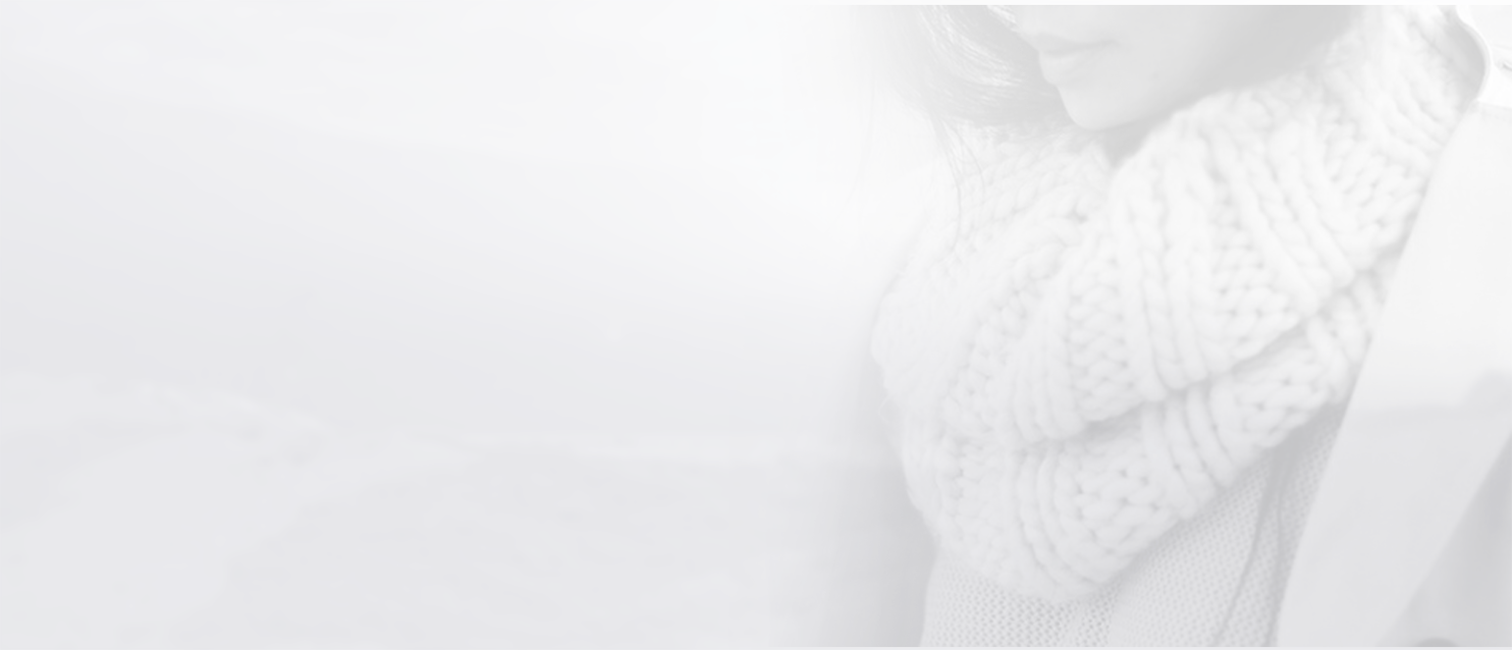
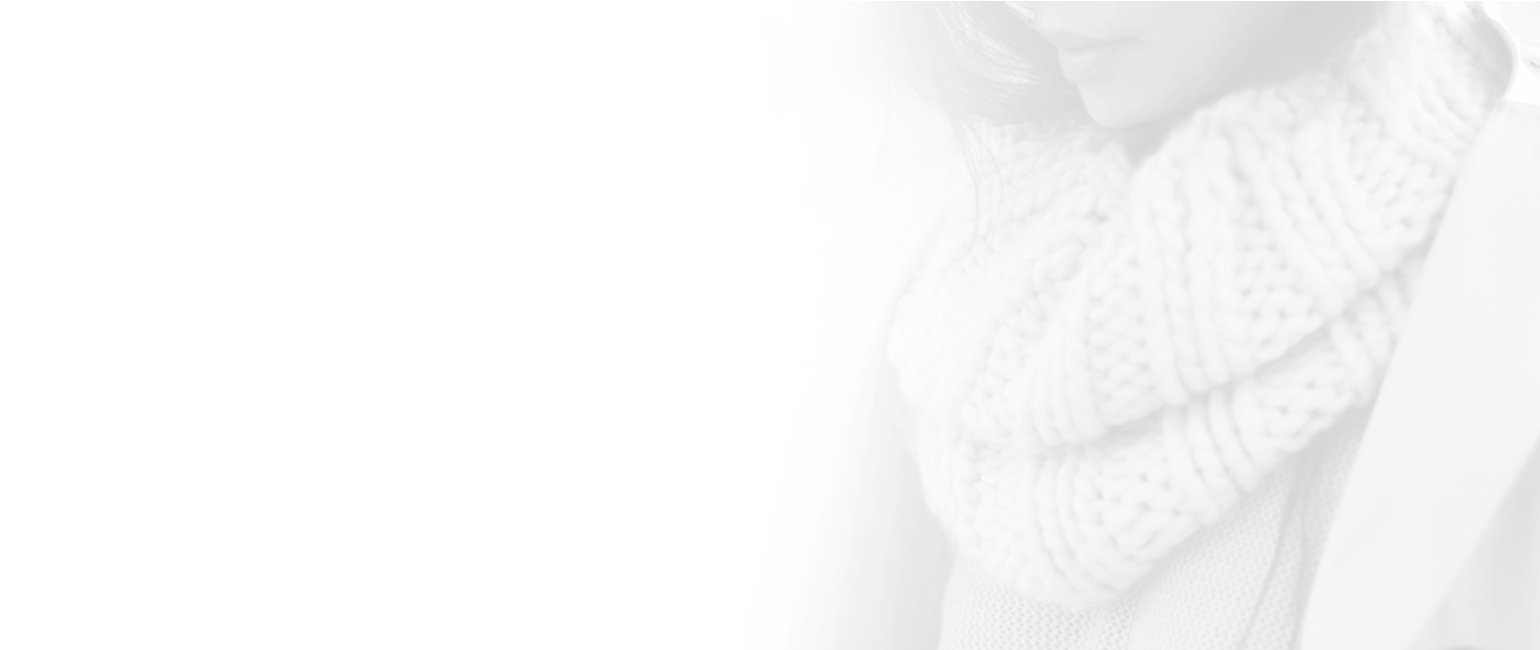
add slider

diff --git a/app/pages/index.html b/app/pages/index.html
@@ -14,6 +14,7 @@
     
     <!-- build:css css/libs.min.css -->
     <link href="../bower/normalize-css/normalize.css" rel="stylesheet">
+    <link href="../bower/bxslider-4/dist/jquery.bxslider.css">
     
     <!-- endbuild -->
     <link rel="stylesheet" href="css/style.css">
@@ -114,6 +115,36 @@
       
       <!--MAIN CONTENT-->
       <main class="content">
+        <section class="slider">
+          <div class="container">
+            <div class="slider__dots"><a href="#" data-slide-index="0"></a><a href="#" data-slide-index="1"></a><a href="#" data-slide-index="2"></a></div>
+          </div>
+          <ul class="slider__list">
+            <li class="slider__item"><img src="img/bg/bg1@1x.png" srcset="img/bg/bg1@2x.png 2x">
+              <div class="slider__info">
+                <h1 class="slider__title">Full Winter Kit</h1>
+                <div class="slider__desc">Half Jacket + Skiny Trousers + Boot leather</div>
+                <div class="slider__text">Lorem Ipsum is simply dummy text of the printing and typesetting industry t of the printing and typesetting industry</div>
+                <div class="slider__action"><span class="slider__price">Price: $120</span><span class="slider__buy">
+                    <svg width="26" height="20">
+                      <use xlink:href="img/svg-sprite.svg#icon-basket"></use>
+                    </svg>Order Now</span></div>
+              </div>
+            </li>
+            <li class="slider__item"><img src="img/bg/bg1@1x.png" srcset="img/bg/bg1@2x.png 2x">
+              <div class="slider__info">
+                <h1 class="slider__title">Full Summer Kit</h1>
+                <div class="slider__desc">Half Jacket + Skiny Trousers</div>
+                <div class="slider__text">Lorem Ipsum is simply dummy text of the printing and typesetting industry</div>
+                <div class="slider__action"><span class="slider__price">Price: $150</span><span class="slider__buy">
+                    <svg width="26" height="20">
+                      <use xlink:href="img/svg-sprite.svg#icon-basket"></use>
+                    </svg>Order Now</span></div>
+              </div>
+            </li>
+            <li class="slider__item"><img src="img/bg/bg1@1x.png" srcset="img/bg/bg1@2x.png 2x"></li>
+          </ul>
+        </section>
         <section class="arrivals">
           <div class="container"></div>
         </section>
@@ -130,8 +161,9 @@
     
     <!-- build:js js/libs.min.js -->
     <script src="../bower/jQuery/dist/jquery.min.js"></script>
+    <script src="../bower/bxslider-4/dist/jquery.bxslider.js"></script>
     
     <!-- endbuild -->
-    <script src="js/common.js" defer></script>
+    <script src="js/common.js"></script>
   </body>
 </html>

diff --git a/app/sass/blocks/_slider.scss b/app/sass/blocks/_slider.scss
@@ -1,0 +1,106 @@
+.slider {
+  position: relative;
+  max-height: rem(650px);
+}
+.slider {
+  .bx-wrapper {
+    border: none;
+    margin: 0;
+    .bx-viewport {
+      left: 0;
+      box-shadow: none;
+      background-color: none;
+      border: none;
+    }
+  }
+}
+.bx-wrapper .bx-prev,
+.bx-wrapper .bx-next {
+  background-image: url("../img/decor/controls.png");
+}
+.slider__list {
+  @extend %ul-reset;
+}
+.slider__item {
+  max-height: rem(650px);
+  img {
+    width: 100%;
+  }
+}
+.slider__dots {
+  position: absolute;
+  z-index: 30;
+  top: 50%;
+  transform: translateY(-50%);
+  a {
+    display: block;
+    width: rem(10px);
+    height: rem(15px);
+    margin-bottom: rem(10px);
+    background-color: #fff;
+    background-color: #444;
+    &:last-child {
+      margin-bottom: 0;
+    }
+    &.active {
+      height: rem(40px);
+      background-color: $accent;
+    }
+  }
+}
+.slider__info {
+  max-width: 570px;
+  position: absolute;
+  z-index: 30;
+  left: 15%;
+  top: 50%;
+  transform: translateY(-50%);
+  font-family: "harmoniaSansProCyr";
+  background-color: #ccc;
+
+}
+.slider__title {
+  margin-bottom: 20px;
+  font-size: rem(52px);
+  line-height: 1;
+  font-weight: 900;
+  color: $accent;
+}
+.slider__desc {
+  margin-bottom: rem(10px);
+  font-size: rem(18px);
+  line-height: rem(30px);
+  font-weight: 700;
+  color: $gray-2;
+}
+.slider__text {
+  margin-bottom: rem(60px);
+  font-size: rem(16px);
+  line-height: rem(30px);
+  font-weight: 400;
+  color: $gray-3;
+}
+.slider__action {
+  font-weight: 700;
+  line-height: rem(20px);
+  font-size: rem(18px);
+}
+.slider__price {
+  margin-right: 30px;
+  color: $gray-1;
+}
+.slider__buy {
+  display: inline-block;
+  vertical-align: middle;
+  color: $accent;
+  cursor: pointer;
+  svg {
+    display: inline-block;
+    vertical-align: middle;
+    margin-right: rem(7px);
+    margin-bottom: 4px;
+    line-height: 1;
+    fill: $accent;
+  }
+
+}

diff --git a/app/sass/blocks/_header.scss b/app/sass/blocks/_header.scss
@@ -50,7 +50,7 @@
   display: inline-block;
   vertical-align: middle;
   width: 12%;
-  margin-right: 7.5%;
+  margin-right: 5%;
 
 }
 .header__menu {
@@ -62,12 +62,11 @@
 .header__action {
   @extend %clearfix;
   width: 100%;
-  max-width: 150px;
+  max-width: 450px;
   float: right;
   padding: rem(10px) 0;
   text-align: right;
 }
-
 
 .header__search,
 .header__basket,
@@ -99,20 +98,24 @@
     }
   }
 }
-.header__search-icon:hover svg {
-  fill: red;
+.header__basket-link:hover ~ .header__basket-number  {
+  background-color: $accent;
+}
+.header__basket-link:active ~ .header__basket-number  {
+  background-color: $accent-active;
+}
+.header__search {
+  // display: block;
+
+}
+.header__search-icon {
+  // position: absolute;
 }
 .header__search-field {
   display: none;
+  // display: block;
+  width: 100%;
 }
-// .header__user-icon {
-//   display: block;
-// }
-//
-// .header__basket-link {
-//   position: relative;
-//   display: block;
-// }
 .header__basket-number {
   position: absolute;
   top: rem(-15px);

diff --git a/app/pages/another-page.html b/app/pages/another-page.html
@@ -14,6 +14,7 @@
     
     <!-- build:css css/libs.min.css -->
     <link href="../bower/normalize-css/normalize.css" rel="stylesheet">
+    <link href="../bower/bxslider-4/dist/jquery.bxslider.css">
     
     <!-- endbuild -->
     <link rel="stylesheet" href="css/style.css">
@@ -36,8 +37,9 @@
     
     <!-- build:js js/libs.min.js -->
     <script src="../bower/jQuery/dist/jquery.min.js"></script>
+    <script src="../bower/bxslider-4/dist/jquery.bxslider.js"></script>
     
     <!-- endbuild -->
-    <script src="js/common.js" defer></script>
+    <script src="js/common.js"></script>
   </body>
 </html>

diff --git a/app/js/common.js b/app/js/common.js
@@ -31,6 +31,14 @@ document.addEventListener("DOMContentLoaded", function() {
       });
     }
 
+    slider();
+    function slider() {
+      $(".slider__list").bxSlider({
+        pagerCustom: ".slider__dots",
+        controls: false
+      });
+    }
+
 
   })();
 });

diff --git a/app/sass/style.scss b/app/sass/style.scss
@@ -24,6 +24,7 @@
 @import "blocks/_header.scss";
 @import "blocks/_socials.scss";
 @import "blocks/_menu.scss";
+@import "blocks/_slider.scss";
 @import "blocks/_footer.scss";
 @import "blocks/_scrollup.scss";
 

diff --git a/app/sass/_variables.scss b/app/sass/_variables.scss
@@ -7,7 +7,8 @@ $accent: #ff5912;
 $accent-active: darken($accent, 20%);
 
 $gray-1: #34404b;
-
+$gray-2: #3c4751;
+$gray-3: #495662;
 
 
 
